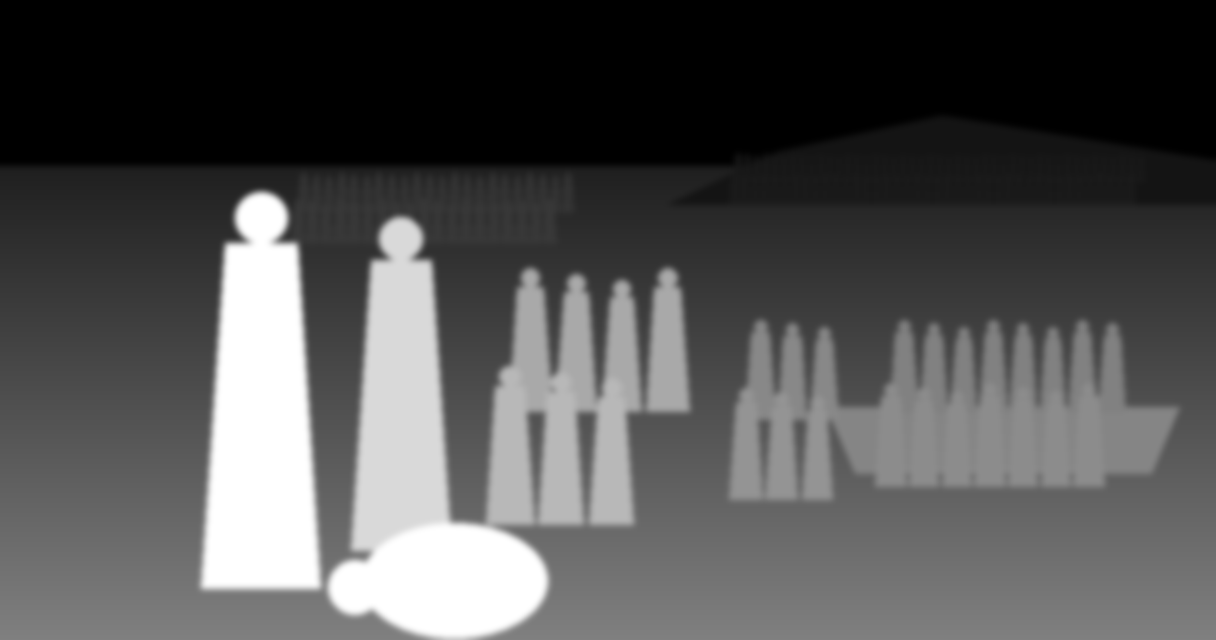
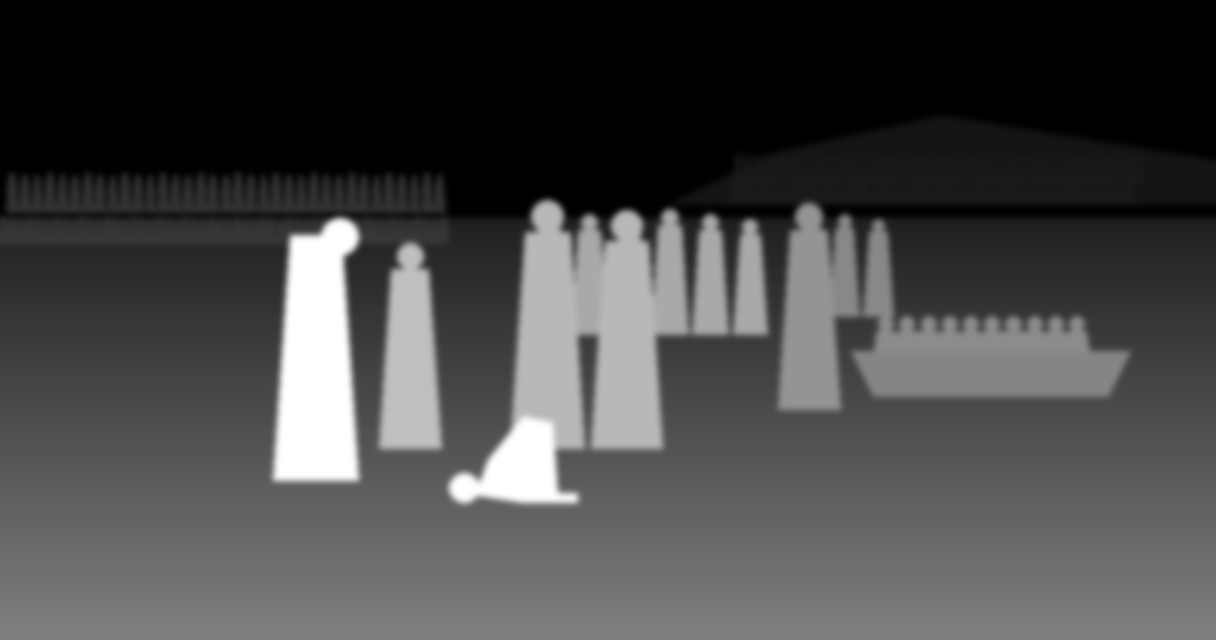
fix(canon): task 410 — 408·409 뒤 새로 실패한 세 칸 명세 쪽 수리
- 기브온·길보아 spec.lexicon-link: 칼 요소 문구를 사전 sword L1 「a straight iron sword」로
  (기브온 「a short sword」는 사전 크기 「팔보다 조금 짧음」과도 어긋남)
- 요단 generate.figure-scale·eye-level-perspective: 군중 단계(0.30~0.45)로 구역 재저작
  — 다윗 0.62→0.44·발 0.92→0.75(지평선 0.343→0.341), 앞 칸은 지평선 쪽 0.71 비로 당김,
  시바·유다 무리 구역은 발 자리 어른 원근 키를 담게. 배치는 387 메모 그대로, 파생 프롬프트 글자 그대로
- notes/SCALE-CROWD.md 재검 1·2 고침 기록, 6 「C8 통과→실패」 오기 정정
- 요단 승인본 restyle r6 s101은 spec_hash 달라 낡음(다시 그리기는 따로)

Claude-Session: https://claude.ai/code/session_017xfXg4nsVPZYcUmVMvn4aM

Changed region(s): [[0.0, 0.25, 1.0, 1.0]]

diff --git a/scripts/canon/notes/RECHECK.md b/scripts/canon/notes/RECHECK.md
@@ -22,7 +22,7 @@
 | `spec.no-compromise-words` | spec | list | 37 | 0 | 0 | 100% |
 | `spec.scene-all-verses` | spec | one | 4 | 33 | 0 | 11% |
 | `spec.cast-card-v2` | spec | all | 37 | 0 | 0 | 100% |
-| `spec.lexicon-link` | spec | all | 10 | 5 | 22 | 67% |
+| `spec.lexicon-link` | spec | all | 12 | 3 | 22 | 80% |
 | `derive.no-hand-prompt` | derive | all | 37 | 0 | 0 | 100% |
 | `derive.no-bare-head` | derive | all | 37 | 0 | 0 | 100% |
 | `derive.prop-in-prompt` | derive | all | 29 | 8 | 0 | 78% |
@@ -36,7 +36,7 @@
 | `generate.guide-costume-legs` | generate | all | 37 | 0 | 0 | 100% |
 | `derive.youth-noun` | derive | all | 34 | 3 | 0 | 92% |
 | `generate.pose-skeleton` | generate | all | 37 | 0 | 0 | 100% |
-| `generate.figure-scale` | generate | all | 36 | 1 | 0 | 97% |
+| `generate.figure-scale` | generate | all | 37 | 0 | 0 | 100% |
 | `derive.no-second-point` | derive | all | 37 | 0 | 0 | 100% |
 | `generate.youth-height` | generate | all | 37 | 0 | 0 | 100% |
 | `generate.height-ratio` | generate | all | 37 | 0 | 0 | 100% |
@@ -48,11 +48,11 @@
 | `derive.no-inflating-build` | derive | all | 27 | 10 | 0 | 73% |
 | `derive.prop-size-coverage` | derive | all | 37 | 0 | 0 | 100% |
 | `derive.crowd-stage` | derive | all | 36 | 1 | 0 | 97% |
-| `generate.eye-level-perspective` | generate | all | 36 | 1 | 0 | 97% |
+| `generate.eye-level-perspective` | generate | all | 37 | 0 | 0 | 100% |
 
 폐기 규칙(재검·통과율에서 뺌): `derive.clip-77-tokens` — 2026-10-22 사람 결정 — SDXL 단계별 경로 전용, 지금 생성 경로는 derive.512-tokens가 잼 · `generate.pose-throw-geometry` — 2026-10-23 d3 — 한 장(c14 s5) 근거로 만든 규칙: d1 「달리는 자세」·d2 「늘어진 팔」로 반증, c10 뼈대가 묶음 기록상 가장 좋음(던진 몸짓 3/8). 결함을 규칙으로 옮기기 전에 같은 조건에서 맞게 나온 적이 있는지 기록부터 볼 것 · `generate.pose-hold` — 2026-10-23 f5 — f4e 5표: 수금 쥠 5→1로 고쳤으나 벽 앞·피함·순간 0→5/5로 무너짐(다윗이 벽에서 떨어져 선 채) · 다윗 깊이 꼴 유지, 손 자리는 다른 수단 · `generate.pose-only-control` — 2026-10-23 g2e — 진단은 맞음(뼈대만이면 몸짓이 살아 다윗 숙임·사울 기욺)이나 맞바꿈: 몸 덩어리·벽 자리·수금 모양을 잃고 액자(g1e 다수결 틀림 6 · g2e 15 vs 섞은 f6e3 2). 깊이+뼈대 섞기 유지, make_pose_only·duck_low는 남김 · `generate.spear-two-thirds` — 2026-10-23 m5 — generate.flight-position(명세 칸 guide.flight + 사전 크기)로 일반화(사람 「지적한거 그대로 일회성으로 쓰지말고 규칙화」)
 
-**전 규칙 통과 명세 1/37** · 칸 통과 1031/1177 (88%)
+**전 규칙 통과 명세 1/37** · 칸 통과 1035/1177 (88%)
 
 | 명세 | required-fields | whole-fields | verse-elements | no-compromise-words | scene-all-verses | cast-card-v2 | lexicon-link | no-hand-prompt | no-bare-head | prop-in-prompt | 512-tokens | stage-from-scripture | action-place-on-figure | thrown-guide | guide-backdrop | guide-body-build | dodge-clear | guide-costume-legs | youth-noun | pose-skeleton | figure-scale | no-second-point | youth-height | height-ratio | split-control | prop-size-relative | flight-position | empty-hand-open | wall-material | no-inflating-build | prop-size-coverage | crowd-stage | eye-level-perspective |
 |---|---|---|---|---|---|---|---|---|---|---|---|---|---|---|---|---|---|---|---|---|---|---|---|---|---|---|---|---|---|---|---|---|---|
@@ -61,7 +61,7 @@
 | david-en-gedi-saul | ✅ | ✅ | ✗ | ✅ | ✗ | ✅ | – | ✅ | ✅ | ✅ | ✅ | ✗ | – | ✅ | ✅ | ✅ | ✅ | ✅ | ✅ | ✅ | ✅ | ✅ | ✅ | ✅ | ✅ | ✅ | ✅ | ✅ | ✅ | ✗ | ✅ | ✅ | ✅ |
 | david-gath-achish | ✅ | ✅ | ✅ | ✅ | ✗ | ✅ | ✅ | ✅ | ✅ | ✅ | ✅ | ✗ | ✅ | ✅ | ✅ | ✅ | ✅ | ✅ | ✅ | ✅ | ✅ | ✅ | ✅ | ✅ | ✅ | ✅ | ✅ | ✅ | ✅ | ✅ | ✅ | ✅ | ✅ |
 | david-gibeah-harp | ✅ | ✅ | ✗ | ✅ | ✗ | ✅ | – | ✅ | ✅ | ✅ | ✅ | ✗ | – | ✅ | ✅ | ✅ | ✅ | ✅ | ✗ | ✅ | ✅ | ✅ | ✅ | ✅ | ✅ | ✅ | ✅ | ✅ | ✅ | ✗ | ✅ | ✅ | ✅ |
-| david-gibeon-battle | ✅ | ✗ | ✅ | ✅ | ✗ | ✅ | ✗ | ✅ | ✅ | ✅ | ✅ | ✗ | ✅ | ✅ | ✅ | ✅ | ✅ | ✅ | ✅ | ✅ | ✅ | ✅ | ✅ | ✅ | ✅ | ✅ | ✅ | ✅ | ✅ | ✅ | ✅ | ✅ | ✅ |
+| david-gibeon-battle | ✅ | ✗ | ✅ | ✅ | ✗ | ✅ | ✅ | ✅ | ✅ | ✅ | ✅ | ✗ | ✅ | ✅ | ✅ | ✅ | ✅ | ✅ | ✅ | ✅ | ✅ | ✅ | ✅ | ✅ | ✅ | ✅ | ✅ | ✅ | ✅ | ✅ | ✅ | ✅ | ✅ |
 | david-goliath-gath | ✅ | ✅ | ✗ | ✅ | ✗ | ✅ | – | ✅ | ✅ | ✗ | ✅ | ✗ | – | ✅ | ✅ | ✅ | ✅ | ✅ | ✗ | ✅ | ✅ | ✅ | ✅ | ✅ | ✅ | ✅ | ✅ | ✅ | ✅ | ✅ | ✅ | ✅ | ✅ |
 | david-hebron-king-judah | ✅ | ✗ | ✅ | ✅ | ✗ | ✅ | ✅ | ✅ | ✅ | ✅ | ✅ | ✗ | ✅ | ✅ | ✅ | ✅ | ✅ | ✅ | ✅ | ✅ | ✅ | ✅ | ✅ | ✅ | ✅ | ✅ | ✅ | ✅ | ✅ | ✅ | ✅ | ✅ | ✅ |
 | david-jerusalem-conquest | ✅ | ✗ | ✅ | ✅ | ✗ | ✅ | ✅ | ✅ | ✅ | ✅ | ✅ | ✗ | ✅ | ✅ | ✅ | ✅ | ✅ | ✅ | ✅ | ✅ | ✅ | ✅ | ✅ | ✅ | ✅ | ✅ | ✅ | ✅ | ✅ | ✗ | ✅ | ✅ | ✅ |
@@ -69,13 +69,13 @@
 | david-nathan-covenant | ✅ | ✗ | ✅ | ✅ | ✗ | ✅ | ✅ | ✅ | ✅ | ✅ | ✅ | ✗ | ✅ | ✅ | ✅ | ✅ | ✅ | ✅ | ✅ | ✅ | ✅ | ✅ | ✅ | ✅ | ✅ | ✅ | ✅ | ✅ | ✅ | ✅ | ✅ | ✅ | ✅ |
 | david-nob-priests | ✅ | ✅ | ✅ | ✅ | ✗ | ✅ | ✗ | ✅ | ✅ | ✅ | ✅ | ✗ | ✅ | ✅ | ✅ | ✅ | ✅ | ✅ | ✅ | ✅ | ✅ | ✅ | ✅ | ✅ | ✅ | ✗ | ✅ | ✅ | ✅ | ✗ | ✅ | ✅ | ✅ |
 | david-ramah-samuel | ✅ | ✅ | ✅ | ✅ | ✗ | ✅ | ✅ | ✅ | ✅ | ✅ | ✅ | ✗ | ✅ | ✅ | ✅ | ✅ | ✅ | ✅ | ✅ | ✅ | ✅ | ✅ | ✅ | ✅ | ✅ | ✅ | ✅ | ✅ | ✅ | ✅ | ✅ | ✅ | ✅ |
-| david-returns-jerusalem | ✅ | ✅ | ✅ | ✅ | ✅ | ✅ | ✅ | ✅ | ✅ | ✅ | ✅ | ✗ | ✅ | ✅ | ✅ | ✗ | ✅ | ✅ | ✅ | ✅ | ✗ | ✅ | ✅ | ✅ | ✅ | ✗ | ✅ | ✅ | ✅ | ✅ | ✅ | ✅ | ✗ |
+| david-returns-jerusalem | ✅ | ✅ | ✅ | ✅ | ✅ | ✅ | ✅ | ✅ | ✅ | ✅ | ✅ | ✗ | ✅ | ✅ | ✅ | ✗ | ✅ | ✅ | ✅ | ✅ | ✅ | ✅ | ✅ | ✅ | ✅ | ✗ | ✅ | ✅ | ✅ | ✅ | ✅ | ✅ | ✅ |
 | david-ziklag-base | ✅ | ✗ | ✅ | ✅ | ✗ | ✅ | ✅ | ✅ | ✅ | ✅ | ✅ | ✗ | ✅ | ✅ | ✅ | ✅ | ✅ | ✅ | ✅ | ✅ | ✅ | ✅ | ✅ | ✅ | ✅ | ✅ | ✅ | ✅ | ✅ | ✅ | ✅ | ✅ | ✅ |
 | samuel-bethlehem-david-anointing | ✅ | ✗ | ✅ | ✅ | ✗ | ✅ | ✗ | ✅ | ✅ | ✅ | ✅ | ✗ | ✅ | ✅ | ✅ | ✅ | ✅ | ✅ | ✗ | ✅ | ✅ | ✅ | ✅ | ✅ | ✅ | ✗ | ✅ | ✅ | ✅ | ✅ | ✅ | ✅ | ✅ |
 | samuel-ramah-death | ✅ | ✅ | ✗ | ✅ | ✗ | ✅ | – | ✅ | ✅ | ✅ | ✅ | ✗ | – | ✅ | ✅ | ✅ | ✅ | ✅ | ✅ | ✅ | ✅ | ✅ | ✅ | ✅ | ✅ | ✅ | ✅ | ✅ | ✅ | ✅ | ✅ | ✅ | ✅ |
 | saul-endor-medium | ✅ | ✗ | ✅ | ✅ | ✗ | ✅ | ✅ | ✅ | ✅ | ✅ | ✅ | ✗ | ✅ | ✅ | ✅ | ✅ | ✅ | ✅ | ✅ | ✅ | ✅ | ✅ | ✅ | ✅ | ✅ | ✅ | ✅ | ✅ | ✅ | ✅ | ✅ | ✅ | ✅ |
 | saul-gibeah-spear | ✅ | ✅ | ✅ | ✅ | ✅ | ✅ | ✅ | ✅ | ✅ | ✅ | ✅ | ✅ | ✅ | ✅ | ✅ | ✅ | ✅ | ✅ | ✅ | ✅ | ✅ | ✅ | ✅ | ✅ | ✅ | ✅ | ✅ | ✅ | ✅ | ✅ | ✅ | ✅ | ✅ |
-| saul-gilboa-death | ✅ | ✗ | ✅ | ✅ | ✗ | ✅ | ✗ | ✅ | ✅ | ✅ | ✅ | ✗ | ✅ | ✅ | ✅ | ✅ | ✅ | ✅ | ✅ | ✅ | ✅ | ✅ | ✅ | ✅ | ✅ | ✅ | ✅ | ✅ | ✅ | ✅ | ✅ | ✅ | ✅ |
+| saul-gilboa-death | ✅ | ✗ | ✅ | ✅ | ✗ | ✅ | ✅ | ✅ | ✅ | ✅ | ✅ | ✗ | ✅ | ✅ | ✅ | ✅ | ✅ | ✅ | ✅ | ✅ | ✅ | ✅ | ✅ | ✅ | ✅ | ✅ | ✅ | ✅ | ✅ | ✅ | ✅ | ✅ | ✅ |
 | saul-gilgal-amalek | ✅ | ✅ | ✗ | ✅ | ✗ | ✅ | – | ✅ | ✅ | ✅ | ✅ | ✗ | – | ✅ | ✅ | ✅ | ✅ | ✅ | ✅ | ✅ | ✅ | ✅ | ✅ | ✅ | ✅ | ✅ | ✅ | ✅ | ✅ | ✗ | ✅ | ✅ | ✅ |
 | saul-gilgal-coronation | ✅ | ✅ | ✗ | ✅ | ✗ | ✅ | – | ✅ | ✅ | ✅ | ✅ | ✗ | – | ✅ | ✅ | ✅ | ✅ | ✅ | ✅ | ✅ | ✅ | ✅ | ✅ | ✅ | ✅ | ✅ | ✅ | ✅ | ✅ | ✗ | ✅ | ✅ | ✅ |
 | saul-jabesh-rescue | ✅ | ✅ | ✗ | ✅ | ✗ | ✅ | – | ✅ | ✅ | ✅ | ✅ | ✗ | – | ✅ | ✅ | ✅ | ✅ | ✅ | ✅ | ✅ | ✅ | ✅ | ✅ | ✅ | ✅ | ✅ | ✅ | ✅ | ✅ | ✗ | ✅ | ✅ | ✅ |

diff --git a/scripts/canon/notes/SCALE-CROWD.md b/scripts/canon/notes/SCALE-CROWD.md
@@ -52,10 +52,13 @@ scripture-reviewer가 28항목 `count`·`count_why`를 개역한글(`data/bible/
 
 1. **요단 귀환 `generate.figure-scale` 통과 → 실패** — 사람 수 2055(베냐민 일천 [직접] · 유다 족속 1000 [저작] …) → 군중 단계 0.30~0.45인데 다윗 구역 0.62. 그러나 사람이 승인한 요단(restyle r6 s101)이 바로 이 구도다(387 메모 「다윗·시므이 일행(15+20) 포커스 · 베냐민 1천명은 조금멀리 원근감」).
    → 사람 결정: ① 군중 범위를 고친다 ② 사람 수를 「초점 곁 무리」만 센다(먼 무리는 원근이 줄이므로 단계에서 뺌) ③ 요단 구역을 군중 단계로 다시 저작. 기대값 약화로 맞추지 않음.
+   → **고침(task 410, 사람 「3」)**: 요단 구역 재저작 — 카메라를 뒤로 뺀 꼴. 다윗 0.62 → 0.44·발 0.92 → 0.75(지평선 0.343 → 0.341 거의 그대로), 앞 칸(시므이·바르실래·배·가족·강)은 지평선 쪽으로 같은 비 0.71로 당김, 바르실래는 비례로만 줄이면 0.28로 단계 하한 밑이라 0.32. 배치는 387 메모 그대로(가이드 눈 확인). ②(초점 곁만 셈)는 가까운 무리 55명 → 큰 무리 0.35~0.50이라 0.62가 여전히 실패라 기각. 대가: 화면 아래 약 25%가 빈 땅 — 첫 그림 판정 때 볼 것. 승인본 restyle r6 s101은 낡음(stale, 다시 그리기는 따로).
 2. **요단 귀환 `generate.eye-level-perspective` 실패(새 규칙)** — 시바 무리(발 0.82, 어른 키 0.51 > 구역 0.40)·유다 몇 사람(발 0.78, 0.47 > 0.28): 가까운 무리 구역이 원근보다 낮게 저작됨. 가이드 무리 꼴은 이제 발 y에서 그려 구역 위로 솟고 한 줄에 한 사람만 들어감 → 요단 가이드 구역 재저작 필요(위 1과 함께 결정).
+   → **고침(task 410)**: 시바 일행 [0.38,0.30,0.62,0.70](발 0.70 → 어른 키 0.386 ≤ 구역 0.40) · 유다 몇 [0.62,0.31,0.74,0.64](발 0.64 → 0.322 ≤ 0.33). 시바 무리 꼴이 이제 한 줄에 세 사람.
 3. **아둘람 `derive.crowd-stage` 실패(새 규칙)** — 수 비움(위 「무엇을 바꿨나」). 사용자 미커밋 변경 커밋 뒤 400 [직접] 넣기.
 4. **요단 유다 족속(gilgal) 구역은 지평선 위(둑)** — 평지 눈높이 셈 밖이라 무리 꼴·검사 모두 옛 상자 비. 둑 높이 칸이 생기면 셈에 넣을 것.
 5. **기브아 가이드 바닥선 0.26 → 0.455** — 기브아 루프(task 407 파킹) 재개 때 가이드 바뀜. 실내 장면에서는 지평선과 뒷벽 밑선이 같지 않다(벽 밑선은 지평선 아래) — 벽 거리 칸이 없어 지금은 지평선 = 바닥선.
-6. **기브아 루프 C8(기준 9b29989)** — task 408의 기브온·길보아 2칸에 더해 이번 요단 `generate.figure-scale` 1칸이 통과→실패. 루프 재개 전 사람 결정(C8 기준 커밋을 409 뒤로 옮길지).
+6. ~~**기브아 루프 C8(기준 9b29989)** — task 408의 기브온·길보아 2칸에 더해 이번 요단 `generate.figure-scale` 1칸이 통과→실패. 루프 재개 전 사람 결정(C8 기준 커밋을 409 뒤로 옮길지).~~
+   → **정정(task 410)**: 「C8 통과→실패」는 오기 — 기준 커밋 9b29989의 `samples/recheck/specs.json`에 세 칸(기브온·길보아 `spec.lexicon-link` · 요단 `generate.figure-scale`) 키가 없어 비교 대상이 아니었다(C8 명령은 그때도 통과). 세 칸은 408·409가 새로 연 칸의 실패였고, task 410에서 모두 고침: 기브온 「a short sword」 → 사전 L1 「a straight iron sword」(「short」는 사전 크기 「팔보다 조금 짧음」과도 어긋남) · 길보아 사울 칼 「a straight iron sword sheathed at his hip」 · 요단은 위 1·2.
 7. **본문 파일 오탈자 의심** — `data/bible/verses.json` 삼상 17:21에 「블레섹」(장면 명세 quotes는 「블레셋」). data-author가 그 글자가 든 조각은 인용에서 뺌. 본문 파일 확인 필요(범위 밖).
 8. **어림 단계 확인 칸** — 골리앗 양군 3000(군중) · 야베스 330000(11:8 계수 — 단계만 의미) · 성전 건축 73300(담군 + 관리, 건축자 셈 밖) · 기브온 신복 30씩. 단계가 그림 크기를 정하므로 첫 그림 판정 때 같이 볼 것.
